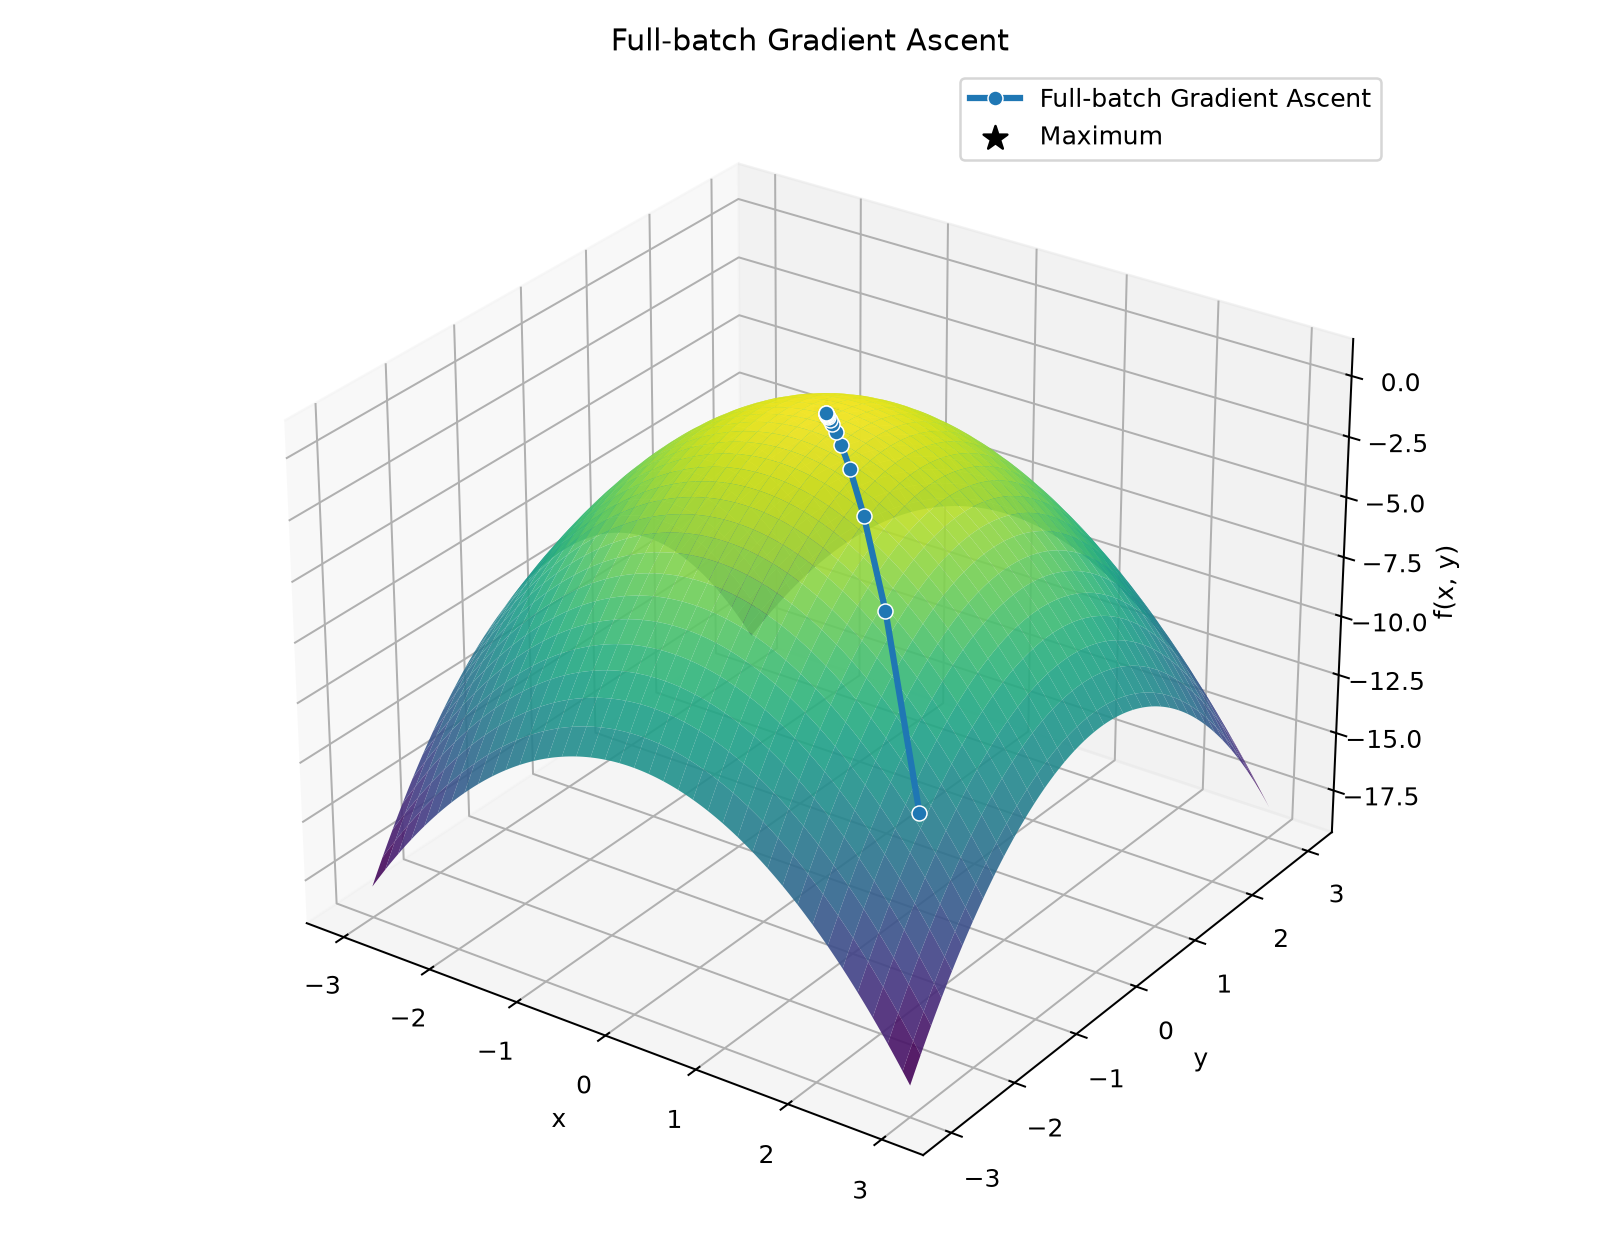
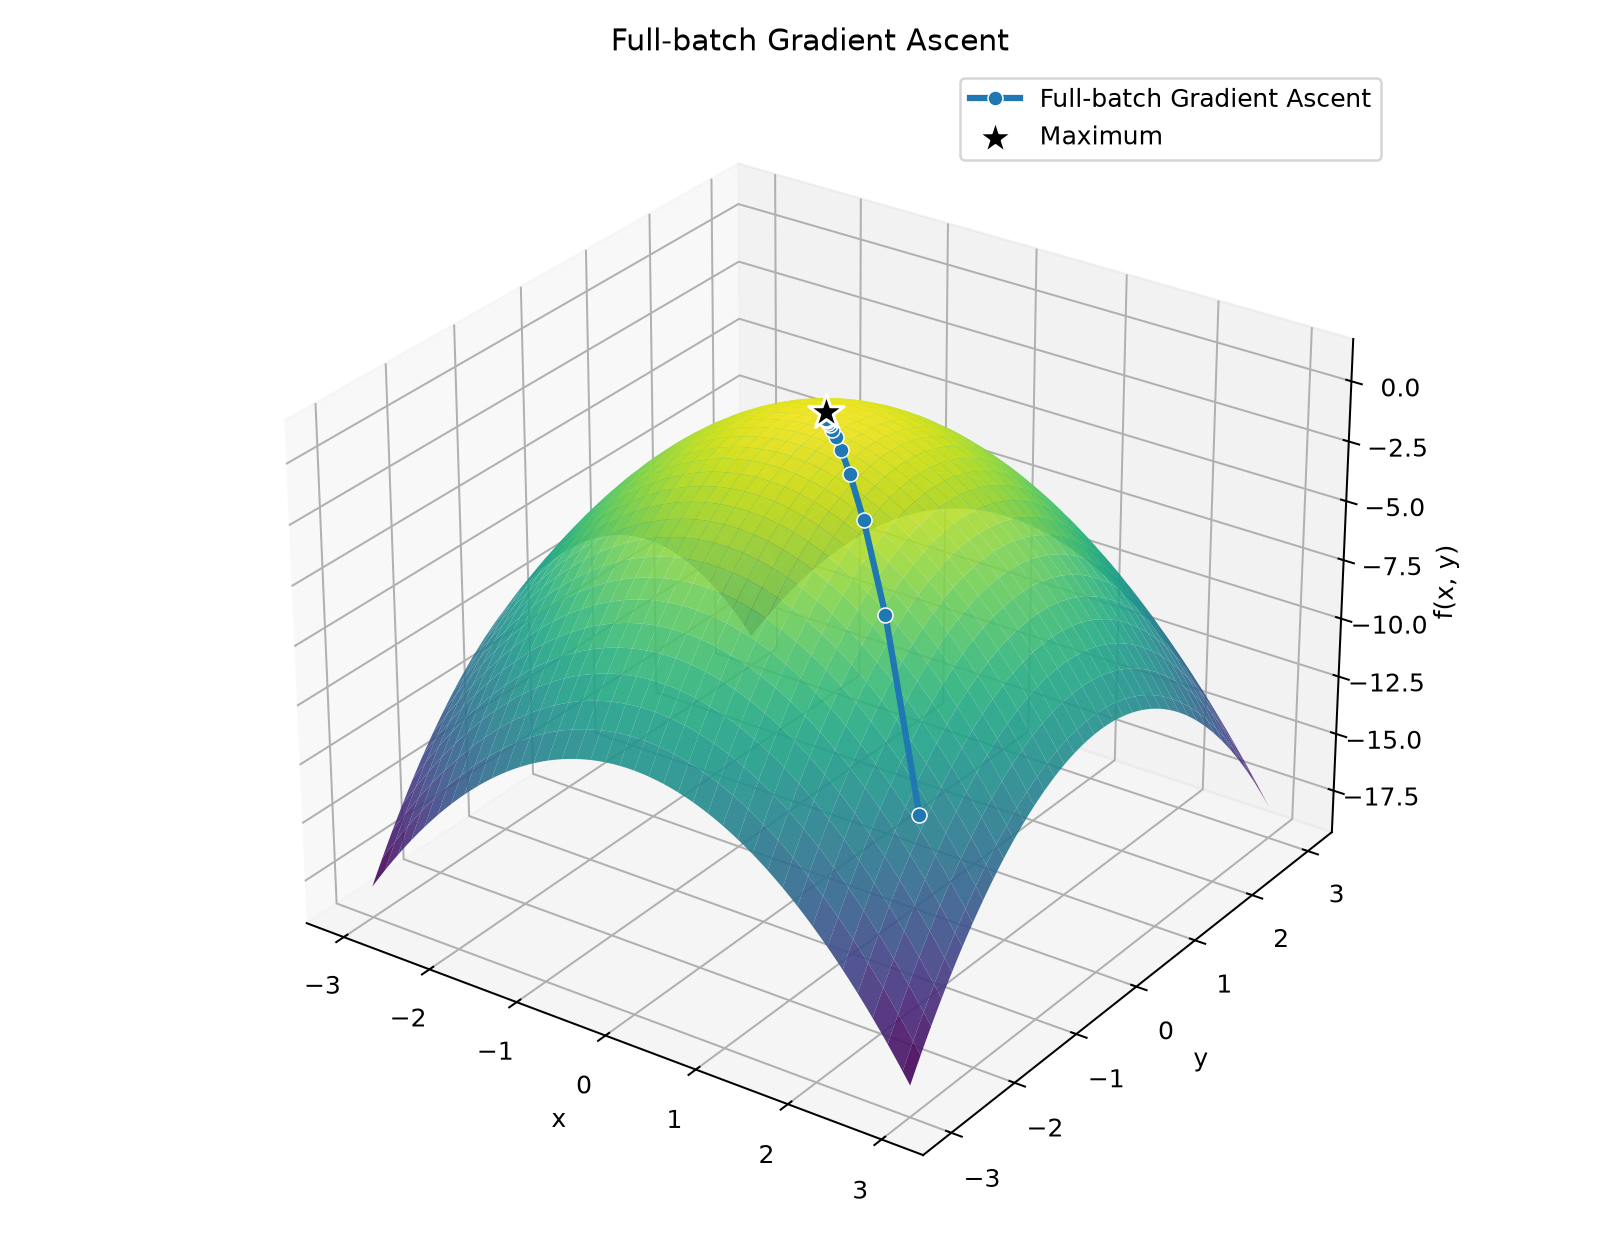
Overlay quadratic maximum marker

diff --git a/scratch/plot_flipped_quadratic_optimization.py b/scratch/plot_flipped_quadratic_optimization.py
@@ -137,8 +137,8 @@ def plot_trajectory(
     z_grid = -(x_grid**2 + y_grid**2)
 
     fig = plt.figure(figsize=(9, 7))
-    ax = fig.add_subplot(111, projection="3d")
-    ax.plot_surface(x_grid, y_grid, z_grid, cmap="viridis", alpha=0.90, linewidth=0)
+    ax = fig.add_subplot(111, projection="3d", computed_zorder=False)
+    ax.plot_surface(x_grid, y_grid, z_grid, cmap="viridis", alpha=0.90, linewidth=0, zorder=1)
 
     # A small vertical rendering offset keeps the path visible above the opaque
     # surface without changing any optimization values.
@@ -156,7 +156,19 @@ def plot_trajectory(
         **style,
     )
 
-    ax.scatter([0.0], [0.0], [0.18], color="black", marker="*", s=100, label="Maximum", depthshade=False)
+    ax.scatter(
+        [0.0],
+        [0.0],
+        [0.40],
+        color="black",
+        edgecolor="white",
+        linewidth=1.2,
+        marker="*",
+        s=220,
+        label="Maximum",
+        depthshade=False,
+        zorder=20,
+    )
     ax.set_xlabel("x")
     ax.set_ylabel("y")
     ax.set_zlabel("f(x, y)")
